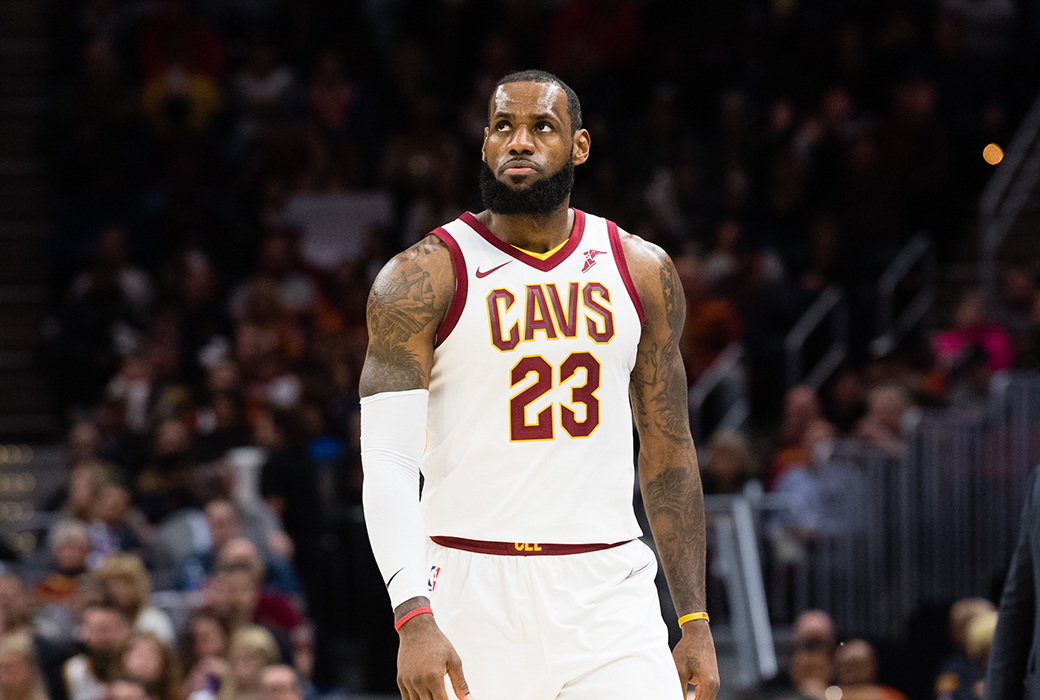
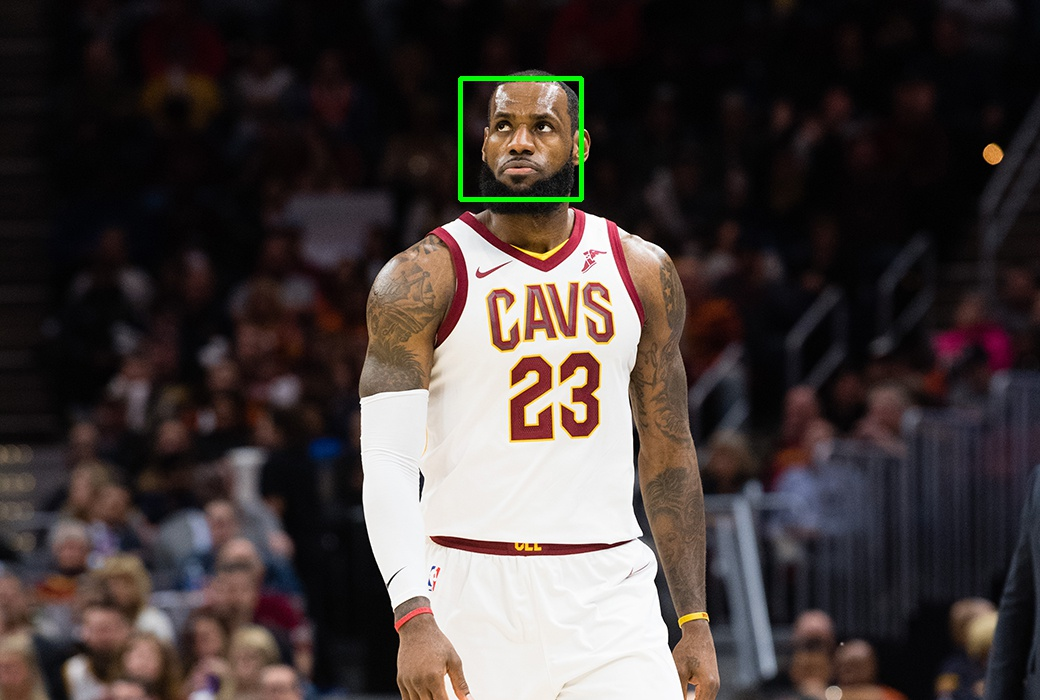
[Server] Face recognition

diff --git a/server/ProcessImageServiceQuery.py b/server/ProcessImageServiceQuery.py
@@ -1,19 +1,51 @@
 from ImageDownloader import _ImageDownloader
 from DirectoryManager import _DirectoryManager
 from Image import _Image
+import numpy as np
+import cv2
 
 class ProcessImageServiceQuery:
 	def __init__(self):
 		pass
 
 	def run(self, url):
-		print 'ProcessImageServiceQuery: run, url [', url, ']'
+		print('ProcessImageServiceQuery: run, url [', url, ']')
 
 		originalFilepath = _DirectoryManager.getOriginalFilepath(url)
 		processedFilepath = _DirectoryManager.getProcessedFilepath(url)
+		replacementImageFilepath = _DirectoryManager.getReplacementImageFilepath()
 
-		self.process(originalFilepath, processedFilepath, url)
-
-	def process(self, originalFilepath, processedFilepath, url):
 		_ImageDownloader.download(url, originalFilepath)
 		_Image.copy(originalFilepath, processedFilepath)
+
+		originalImage = cv2.imread(originalFilepath)
+		replacementImage = cv2.imread(replacementImageFilepath)
+
+		originalFace = self.getLargestFace(originalImage)
+		replacementFace = self.getLargestFace(replacementImage)
+
+		processedImage = self.replaceFace(originalImage, originalFace, replacementImage, replacementFace)
+
+		cv2.imwrite(processedFilepath, processedImage)
+
+
+	def getLargestFace(self, image):
+		faces = self.getFaces(image)
+		return faces[0] if len(faces) > 0 else None
+
+	def getFaces(self, image):
+		face_cascade = cv2.CascadeClassifier('/Users/aaron/opencv/data/haarcascades/haarcascade_frontalface_default.xml')
+		eye_cascade = cv2.CascadeClassifier('/Users/aaron/opencv/data/haarcascades/haarcascade_eye.xml')
+		gray = cv2.cvtColor(image, cv2.COLOR_BGR2GRAY)
+
+		return face_cascade.detectMultiScale(gray, 1.3, 5)
+
+	def replaceFace(self, originalImage, originalFace, replacementImage, replacementFace):
+		x, y, w, h = originalFace
+		cv2.rectangle(originalImage,(x,y),(x+w, y+h),(0,255,0),3)
+		return originalImage
+
+		# scale lebronFace
+		# modify original image
+
+

diff --git a/server/Server.py b/server/Server.py
@@ -1,5 +1,5 @@
 import os
-import urllib
+import urllib.parse
 
 from flask import Flask, request, jsonify, send_file, redirect
 from GetImageServiceQuery import GetImageServiceQuery
@@ -22,24 +22,24 @@ class Server:
 	def onProcessImage(self):
 		encodedUrl = request.args['url']
 		decodedUrl = Server.parseUrl(encodedUrl)
-		print 'Server: onProcessImage, encodedUrl [', encodedUrl, '], url [', decodedUrl, ']'
+		print('Server: onProcessImage, encodedUrl [', encodedUrl, '], url [', decodedUrl, ']')
 
-		try:
-			self.processImageServiceQuery.run(decodedUrl)
+		# try:
+		self.processImageServiceQuery.run(decodedUrl)
 
-			return jsonify({
-				'url' : 'http://localhost:3000/images?url=' + encodedUrl
-			})
-		except:
-			return jsonify({
-				'url' : decodedUrl,
-				'status' : 'failure'
-			})
+		return jsonify({
+			'url' : 'https://localhost:3000/images?url=' + encodedUrl
+		})
+		# except:
+		# 	return jsonify({
+		# 		'url' : decodedUrl,
+		# 		'status' : 'failure'
+		# 	})
 
 	def onGetImage(self):
 		encodedUrl = request.args['url']
 		decodedUrl = Server.parseUrl(encodedUrl)
-		print 'Server: onGetImage, encodedUrl [', encodedUrl, '], url [', decodedUrl, ']'
+		print('Server: onGetImage, encodedUrl [', encodedUrl, '], url [', decodedUrl, ']')
 
 		try:
 			filepath = self.getImageServiceQuery.run(encodedUrl)
@@ -50,7 +50,7 @@ class Server:
 
 	@staticmethod
 	def parseUrl(encodedUrl):
-		return urllib.unquote(encodedUrl).decode('utf8')
+		return urllib.parse.unquote(encodedUrl)
 
 	@staticmethod
 	def parseUrlFromRequest(request):

diff --git a/server/DirectoryManager.py b/server/DirectoryManager.py
@@ -1,18 +1,16 @@
-import urlparse, os, urllib
+import os, urllib.parse
 
 class DirectoryManager:
 	def __init__(self):
 		pass
 
-	def getExtension(self, url):
-		path = urlparse.urlparse(url).path
-		_, extension = os.path.splitext(path)
-		return extension if extension else '.jpg'
-
 	def getOriginalFilepath(self, decodedUrl):
-		return 'database/' + str(urllib.quote_plus(decodedUrl)) + '-original.jpg'
+		return 'database/' + str(urllib.parse.quote_plus(decodedUrl)) + '-original.jpg'
 
 	def getProcessedFilepath(self, decodedUrl):
-		return 'database/' + str(urllib.quote_plus(decodedUrl)) + '-processed.jpg'
+		return 'database/' + str(urllib.parse.quote_plus(decodedUrl)) + '-processed.jpg'
 
+	def getReplacementImageFilepath(self):
+		return 'database/lebron.jpg'
+		
 _DirectoryManager = DirectoryManager()

diff --git a/server/example_face_detection.py b/server/example_face_detection.py
@@ -1,0 +1,21 @@
+import numpy as np
+import cv2
+
+face_cascade = cv2.CascadeClassifier('/Users/aaron/opencv/data/haarcascades/haarcascade_frontalface_default.xml')
+eye_cascade = cv2.CascadeClassifier('/Users/aaron/opencv/data/haarcascades/haarcascade_eye.xml')
+
+img = cv2.imread('database/lebron.jpg')
+gray = cv2.cvtColor(img, cv2.COLOR_BGR2GRAY)
+
+faces = face_cascade.detectMultiScale(gray, 1.3, 5)
+for (x,y,w,h) in faces:
+    cv2.rectangle(img,(x,y),(x+w,y+h),(255,0,0),2)
+    roi_gray = gray[y:y+h, x:x+w]
+    roi_color = img[y:y+h, x:x+w]
+    eyes = eye_cascade.detectMultiScale(roi_gray)
+    for (ex,ey,ew,eh) in eyes:
+        cv2.rectangle(roi_color,(ex,ey),(ex+ew,ey+eh),(0,255,0),2)
+
+cv2.imshow('img',img)
+cv2.waitKey(0)
+cv2.destroyAllWindows()

diff --git a/server/ImageDownloader.py b/server/ImageDownloader.py
@@ -1,11 +1,11 @@
-import urllib
+import urllib.request
 
 class ImageDownloader:
 	def __init__(self):
 		pass
 
 	def download(self, url, destination):
-		print 'ImageDownloader: downloadImage, url [', url, '], destination [', destination, ']'
-		urllib.urlretrieve(url, destination)
+		print('ImageDownloader: downloadImage, url [', url, '], destination [', destination, ']')
+		urllib.request.urlretrieve(url, destination)
 
 _ImageDownloader = ImageDownloader()
